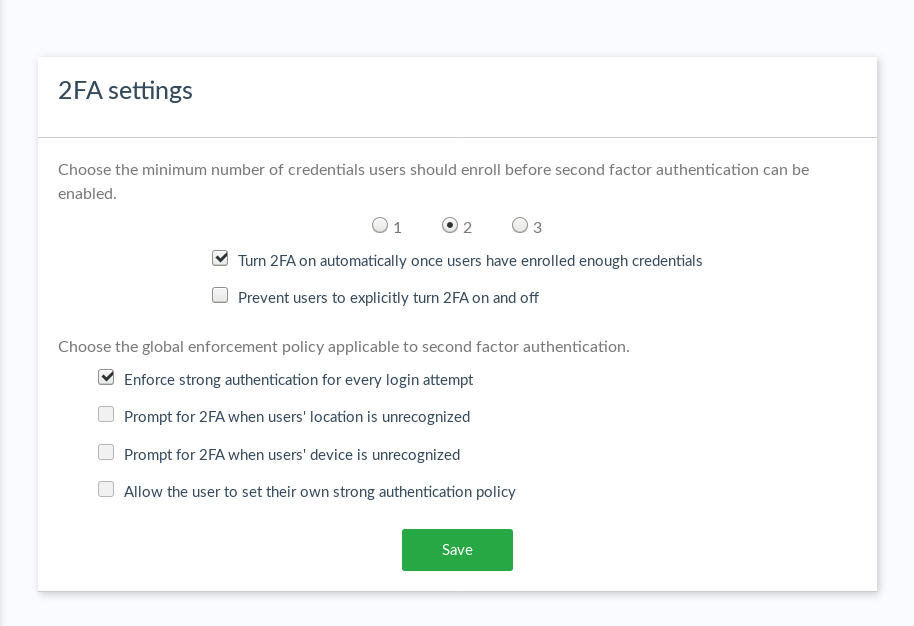
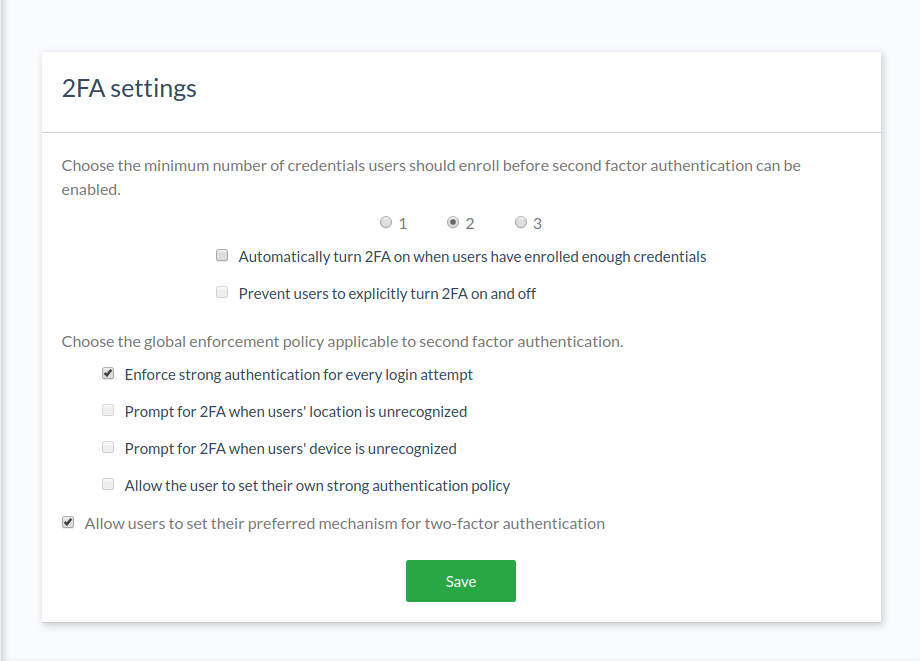
docs: updates per changes in https://github.com/GluuFederation/casa/issues/87

diff --git a/docs/source/user-guide.md b/docs/source/user-guide.md
@@ -30,9 +30,11 @@ After the minimum number of credentials have been enrolled (as specified by the 
 
 ![preferred-2fa](./img/preferred.png)
 
-When prompted for 2FA, a combination of credential strength and the type of device being used to access the protected resource will be used to determine which type of strong credential is presented first. 
+If the switch is not visible, your administrator may have configured the system so that 2FA is turned on automatically when enough credentials are available.
 
-For example, if you're accessing a 2FA protected resource from a laptop, and you've enrolled FIDO keys and OTP apps to secure your account, FIDO will be presented as the first option for 2FA. Alternatively, if you're accessing the protected resource from a mobile device, OTP will be presented first. The exact ranking and order will be determined by the administrator. 
+When prompted for 2FA, a combination of credential strength and the type of device being used to access the protected resource will be used to determine which type of strong credential is prompted first. Depending on settings specified by your admin, you can actually choose the type of credential yourself. 
+
+As an example, if you're accessing a 2FA protected application from a laptop, and you've enrolled FIDO keys and OTP apps to secure your account, FIDO will be presented as the first option for 2FA. Alternatively, if you're accessing the protected resource from a mobile device, OTP will be presented first. The exact ranking and order will be determined by the administrator. 
 
 If at any time the credential prompted is unavailable, you can choose to present any other previously enrolled 2FA credential type. 
 
@@ -57,21 +59,23 @@ If you opt for 2FA based on location, device, or both, a new widget will appear 
 
 ### 2FA best practices
 
-The context of an authentication attempt can determine which type of credential is most convenient to use. For instance, U2F keys are not compatible with mobile phones or certain browsers. 
+The context of an authentication attempt can determine which type of credential is most convenient to use. For instance, security keys may not be compatible with mobile phones or certain browsers. 
 
-**To reduce the chance of account lockout**, enroll at least two different _types_ of 2FA credentials -- e.g. one U2F token and one OTP app; or one OTP app and one SMS phone number, etc. This way, regardless which device you're using to access a protected resource, you will have a usable option for passing strong authentication. 
+**To reduce the chance of account lockout**, enroll at least two different _types_ of 2FA credentials -- e.g. one security key and one OTP app; or one OTP app and one SMS phone number, etc. This way, regardless which device you're using to access a protected resource, you will have a usable option for passing strong authentication. 
 
 
 ## 2FA credential details & enrollment
 
 The details page provides additional details about each enrolled credential, for instance last used, mobile operating system, and device name. Nicknames can be edited, credentials can be deleted and new credentials can be enrolled and nicknamed. 
 
+Depending on administrator configurations, some of the below sections may nor may not be available, or sections not listed here may appear.
+
 !!! Warning  
     When a credential is deleted, it cannot be recovered. Deleting credentials may result in 2FA being turned off. 
 
 ### FIDO 2 security keys
 
-To add a new FIDO 2 credential, navigate to `2FA credentials` > `Fido 2 Security Keys`. Insert the fido key and click `Ready`. Casa will prompt to press the button on the key.
+To add a new FIDO 2 credential, navigate to `2FA credentials` > `Security Keys`. Insert the fido key and click `Ready`. Casa will prompt to press the button on the key.
 
 ![add-fido2](./img/add-fido2.png)
 

diff --git a/docs/source/administration/2fa-basics.md b/docs/source/administration/2fa-basics.md
@@ -9,15 +9,20 @@ By default, strong (two-factor) authentication will be available to users of Cas
 
 There is no limit to the number of credentials a user can enroll, and credentials do not need to be of the same type: any combination is valid. 
 
+!!! Note
+    The number of credentials required for two-factor authentication (2FA) can be customized with the [Strong authentication settings plugin](../plugins/2fa-settings.md)
+
 ## Supported types of 2FA
 
 Users will only be able to add credentials with a type matching one of the already enabled authentication methods in the admin console. See the [Admin console page](./admin-console.md/#enabled-methods) to learn more. Out of the box, all the following authentication methods are supported:
 
 - FIDO 2 security keys
-- FIDO U2F security keys ([browser restrictions](./faq.md#u2f-restrictions) may apply)
+- FIDO U2F security keys ([browser restrictions](./faq.md#u2f-restrictions) may apply, we strongly recommend using FIDO 2 instead)
 - Super Gluu for push notifications 
 - HOTP/TOTP apps, cards, "dongles"
 - OTP via SMS (using Twilio or an SMPP server)
+
+Other methods may be supported via [plugins](../index.md#existing-plugins).
 
 ## Resetting a user's 2FA availability
 
@@ -29,9 +34,11 @@ When authenticating, a user with 2FA turned on, will be challenged to present th
 
 Particularly, if the device used to access is a mobile browser, only the methods listed in the property "mobile_methods" of casa script will be accounted to determine the strongest credential. Admins can modify this property at will if the default value does not meet their expectations.
 
+Note there are ways to override the rule of the "strongest" method; see the docs of the [Strong authentication settings plugin](../plugins/2fa-settings.md).
+
 ## Forcing users to enroll a specific credential before 2FA is available
 
-To further reduce the likelihood of lockouts, you can force users to initially enroll, for instance, one OTP credential before any other. OTP credentials are generally more accessible than their counterparts (like U2F) since they normally don't demand special conditions from the device used to access, like having a USB port.
+To further reduce the likelihood of lockouts, you can force users to initially enroll, for instance, one OTP credential before any other. OTP credentials are generally more accessible than their counterparts (like Fido 2) since they normally don't demand special conditions from the device used to access, like having a USB port.
 
 To do so, just add a new configuration property named `2fa_requisite` to the custom interception script corresponding to the authentication method, and assign `true` as its value. It may take more than one minute for Casa to pick up the changes. To add the property, open oxTrust web console and navigate to `Configuration` > `Manage custom scripts`, collapse the method you want to set as requisite for 2FA, and click on `Add new property`.
 

diff --git a/docs/source/plugins/2fa-settings.md b/docs/source/plugins/2fa-settings.md
@@ -6,6 +6,7 @@ This plugin allows administrators to configure how and when 2FA is applied. Admi
 1. Specify the minimum number of credentials users must enroll before 2FA can be used
 1. Allow 2FA to be automatically enabled upon credential enrollment
 1. Prevent users to turn 2FA on and off their own
+1. Allow users to choose a preferred method of authentication
 
 When (2) is not used, option (3) is disabled. This is the default behavior exhibited in Casa where users explicitly enable or disable 2FA usage.
 
@@ -15,6 +16,8 @@ When (2) is active, 2FA is turned on as soon as the user enrolls a credential an
 - Plugins attaching authentication methods to Casa have to explicitly call method `notifyEnrollment` of `SndFactorAuthenticationUtils` upon successful enrollments (see the javadocs).
 
 Also, 2FA is automatically turned on upon login for users with enough credentials registered and not having 2FA turned on yet.
+
+With (4) users may choose a preferred type of credential. This means that when requested for a second factor, a credential of such "preferred" type will be prompted first instead of the credential considered the "strongest". The strength associated to a method is equal to the numeric level assigned to the custom script that represents the method.
 
 For more restrictive scenarios, administrators have the option to remove the 2FA switch (3) from the user's dashboard.
 

diff --git a/docs/source/administration/admin-console.md b/docs/source/administration/admin-console.md
@@ -98,6 +98,7 @@ In the 2FA settings, an admin can:
 - Specify the minimum number of credentials a user **must** enroll before 2FA can be turned on
 - Determine whether 2FA should be automatically enabled upon credential enrollment
 - Whether users can turn 2FA on and off their own
+- Whether users can choose a preferred authentication method
 - Choose from a few predefined policies for when 2FA should be prompted. 
 
 ![2fa-settings](../img/admin-console/2FA-settings.png)
